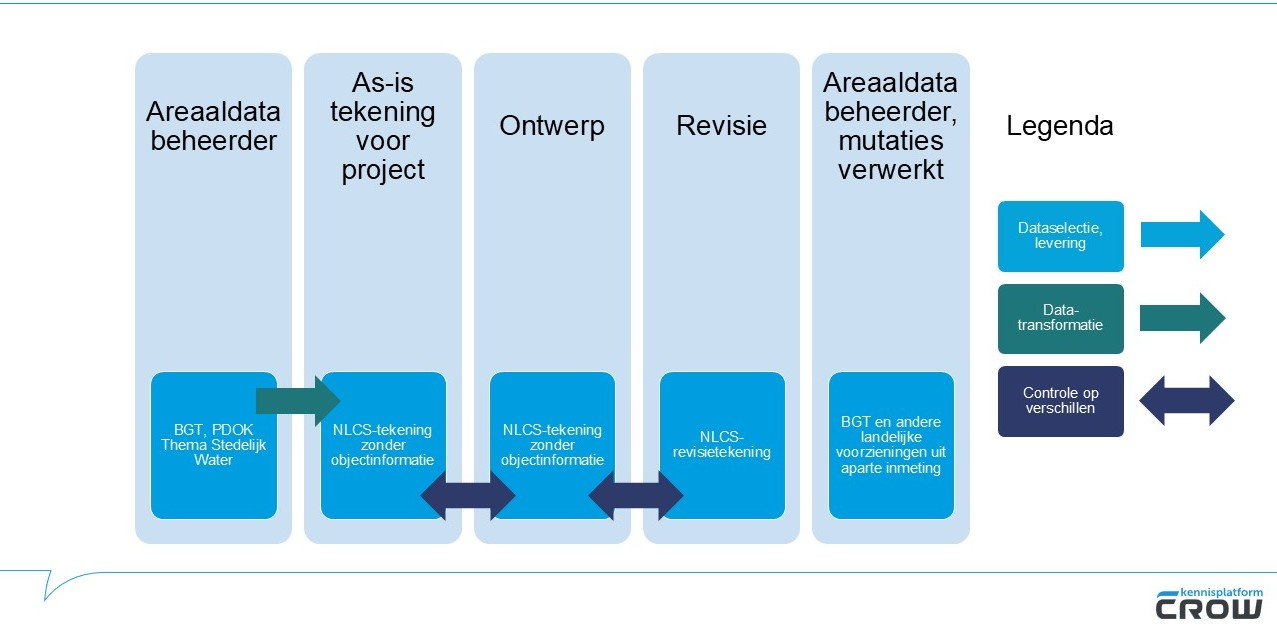
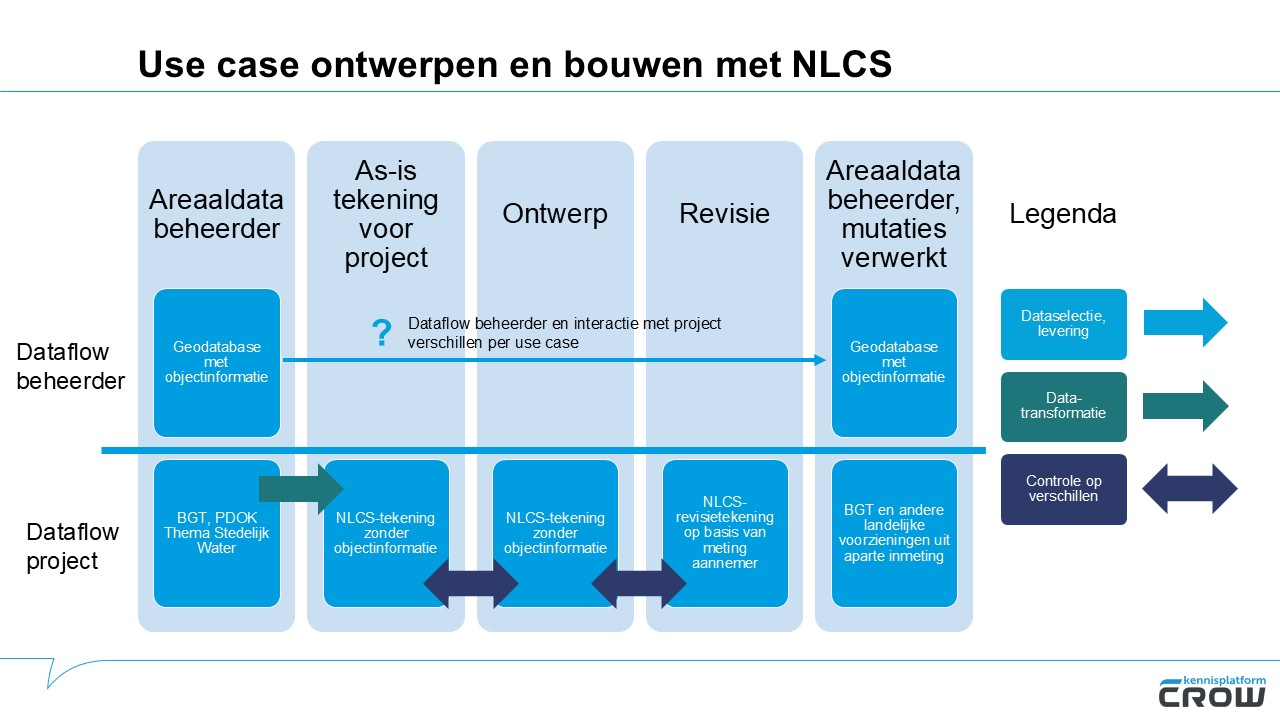
verwerking review, status DEF voor analyse project-beheer

diff --git a/docs/project-beheer/config.js b/docs/project-beheer/config.js
@@ -77,7 +77,7 @@ function indexOfRequirements(config) {
 
 var respecConfig = {
   // => https://github.com/stichting-crow/respec/wiki
-  specStatus: "CR",
+  specStatus: "DEF",
   pubDomain: "use-cases-door",
   shortName: "project-beheer",
   license: "CC-BY",

diff --git a/docs/project-beheer/hoofdstukken/2.md b/docs/project-beheer/hoofdstukken/2.md
@@ -27,7 +27,10 @@ De uitgebreide beschrijving van de use case Nijmegen staat [in dit document](htt
 Deze use case geeft nog geen invulling aan een technische oplossingsrichting voor aansluiting van standaarden.
 
 ## Pilot Dordrecht
-In de pilot Dordracht is onderzocht, of een NLCS-model drager kan zijn van de beheerinformatie, waarbij objectidentificatie nodig is, en ook objectattributen worden meegenomen in de tekening tijdens het ontwerpproces en ook naar de revisietekening. Technisch is bewezen dat het kan, als tenmisnte bij de NLCS standaard aanvullende afspraken worden gemaakt over uitwisseling van attributen bij tekeningen, en over een extra NLCS-status. De pilot werpt vragen op of dit een gewenst en haalbaar pad is voor aanlevering van mutaties: de ontwerper ontwerpt met andere geometrieën dan een beheerder aanlevert, denk bijvoorbeeld aan hartlijnen en offsets voor een weg in het ontwerp, terwijl de weg als 100 meter vak in de beheergeometrie staat. Het meenemen van de attributen en objectidentificatie zal in elk geval een heel andere werkwijze vragen van de ontwerper. 
+In de pilot Dordracht is onderzocht, of een NLCS-model drager kan zijn van de beheerinformatie, waarbij objectidentificatie nodig is, en ook objectattributen worden meegenomen in de tekening tijdens het ontwerpproces en ook naar de revisietekening. Technisch is bewezen dat het kan, als tenminste bij de NLCS standaard aanvullende afspraken worden gemaakt over uitwisseling van attributen bij tekeningen, en over een extra NLCS-status. Het meenemen van de attributen en objectidentificatie zal in elk geval een heel andere werkwijze vragen van de ontwerper. 
+<br><br>
+De pilot werpt vragen op of de voorgestelde werkwijze een gewenst en haalbaar pad is voor aanlevering van mutaties: de ontwerper ontwerpt met andere geometrieën dan een beheerder aanlevert, denk bijvoorbeeld aan hartlijnen en offsets voor een weg in het ontwerp, terwijl de weg als 100 meter vak in de beheergeometrie staat. De route om de vakken het hele project in tekeningen mee te nemen wordt door ontwerpers als niet goed mogelijk gezien, omdat het ontwerpen juist bestaat uit het ruimtelijk inpassen en de hele tijd verschuiven van alignments / lijnen en offsets tot een aangepaste weg of trottoir past in de omgeving. De beheervlakken moeten daarom tijdens het ontwerp aaneensluitende lijnen zijn. Pas als je het in beheer neemt, ga je weer denken in vakken waar wel of niet maatregelen nodig zijn.
+<br><br> 
 Daarnaast is het de vraag, of een revisie niet onafhankelijk moet gebeuren van het ontwerp, waarbij een object wordt ingemeten en de gebruikte materialen worden geregistreerd tijdens het bouwproces. 
 
 
@@ -55,10 +58,10 @@ De use case van Amsterdam, die ook is overgenomen door Gelderland en Zuid-Hollan
 <figcaption>Use case Amsterdam</figcaption>
 </figure>
 
-Deze use case vraagt om het standaardiseren van de techniek waarmee een minimale dataset wordt uitgewisseld, en het standaardiseren van de techniek waarmee zowel geometrische als alfanumerieke informatie wordt opgeleverd. Er is geen matching nodig tussen NLCS en informatiemodellen, omdat het gebruik van tekeningen tijdens ontwerp en bouw los staat van het opleveren van revisiegegevens.
+Deze use case vraagt om het standaardiseren van de techniek waarmee een minimale dataset wordt uitgewisseld, en het standaardiseren van de techniek waarmee zowel geometrische als alfanumerieke informatie wordt opgeleverd. Er is geen matching nodig tussen NLCS modellen en beheergeometrie, omdat het gebruik van tekeningen tijdens ontwerp en bouw los staat van het opleveren van revisiegegevens. Wel moet de revisiemeting ook kunnen worden gevisualiseerd in een NLCS-tekening, daarvoor is wel een alignment tussen IMBOR/GWSW/.. en NLCS nodig.
 
 ## Use cases BIM Basis Infra
-Heel andere use cases komen vanuit de [=BIM Basis Infra=]. Daarin zitten bouwbedrijven waaronder VolkerWessels, en ingenieursbureaus waaronder Movares die gevraagd hebben om van NLCS een informatiemodel te maken, met als doel om objecten goed te kunnen classificeren in 2D CAD en 3D BIM modellen en te automatiseren met het maken van hoeveelheidsberekeningen, inkoopstaten en dergelijke. Bij de BIM Basis Infra zitten ook opdrachtgevers waaronder Gelderland, die de classificatie willen gebruiken om informatie vanuit het project over te dragen naar beheer. 
+Heel andere use cases komen vanuit de [=BIM Basis Infra=]. Daarin zitten bouwbedrijven waaronder VolkerWessels, en ingenieursbureaus waaronder Movares die gevraagd hebben om van NLCS een informatiemodel te maken, met als doel om objecten goed te kunnen classificeren in 2D CAD en 3D BIM modellen (die laatste vraagt een classificatie met een relatie naar IFC) en te automatiseren met het maken van hoeveelheidsberekeningen, inkoopstaten en dergelijke. Bij de BIM Basis Infra zitten ook opdrachtgevers waaronder Gelderland, die de classificatie willen gebruiken om informatie vanuit het project over te dragen naar beheer. 
 Deze groep wil inzetten op een duurzame oplossing voor de langere termijn.
 
 Deze use case vraagt om [technisch scenario variant 3](#variant-3-alignen-informatiemodellen-met-nlcs-classificatie).

diff --git a/docs/project-beheer/hoofdstukken/samenvatting.md b/docs/project-beheer/hoofdstukken/samenvatting.md
@@ -1,5 +1,5 @@
 **Verkenning NLCS - IMBOR**
-Dit document beschrijft de verkenning van oplossingsrichtingen voor het uitwisselen van informatie tussen een beheerder die werkt met informatiemodellen als IMBOR en GWSW in een areaalbeheerpakket en een projectteam (ingenieursbureau, aannemer), dat werkt met ontwerp- en revisietekeningen conform NLCS. De vraag daarbij is, hoe het beste een verbinding tussen de NLCS standaard enerzijds, en de informatiemodellen anderzijds gemaakt kan worden. Het verzoek om deze verkenning op te stellen komt voort uit het [=DOOR=]-programma. 
+Dit document beschrijft de verkenning van oplossingsrichtingen voor het uitwisselen van informatie tussen een beheerder die werkt met informatiemodellen als IMBOR en GWSW in een areaalbeheerpakket en een projectteam (ingenieursbureau, aannemer), dat werkt met ontwerp- en revisietekeningen conform NLCS. De vraag daarbij is, hoe het beste een verbinding tussen de NLCS standaard enerzijds, en de informatiemodellen anderzijds gemaakt kan worden. Het verzoek om deze verkenning op te stellen komt voort uit het [=DOOR=]-programma, die NLCS met IMBOR willen verbinden. 
 
 **Use cases**<br>
 De in de verkenning onderzochte use cases zijn:
@@ -24,7 +24,7 @@ Voor deze uitwisselmomenten ziin transformaties en validaties tussen beheerdata 
 
 **Korte termijn oplossing**<br>
 In de verkenning is onderzocht of een korte termijn tussenoplossing nodig is voor de aansluiting tussen NLCS en IMBOR, vooruitlopend op de architectuur van samenhangende standaarden op lange termijn. Op korte termijn is elk van de varianten van de alignments geschikt voor de beschreven uitwisselingen. Er is nog wel kennis nodig vanuit verschillende vakgebieden om NLCS en IMBOR correct te matchen, er zitten nu nog veel open vragen in de vergelijking.
-Zolang vanuit het DOOR programma geen breed gedragen use case komt met een heel specifieke datatransformatie, lijkt er geen noodzaak om geld uit te geven aan een korte termijn oplossing. Men kan beter mee ontwikkelen naar een lange termijn oplossing. 
+Zolang vanuit het DOOR programma geen breed gedragen use case komt met een heel specifieke datatransformatie, lijkt er geen noodzaak om geld uit te geven aan een korte termijn oplossing. Men kan beter mee ontwikkelen naar een lange termijn oplossing.   
 
 **Lange termijn oplossing**<br>
 Op lange termijn is **variant 3: alignen van informatiemodellen met een NLCS-classificatie** de oplossing die de meeste toepassingen biedt in de gehele keten, en de laagste beheerlast geeft in het onderling afstemmen van standaarden. Omdat aan deze oplossing wordt gewerkt in collectief verband, binnen beleidsmaatregel 3 van Bestuursakkoord Digitale Gebouwde Omgeving '27, is de aanbeveling aan het DOOR programma om het gereserveerde budget voor de alignment tussen NLCS en IMBOR te besteden aan de digiDeal NLCS Objectclassificatie. Gelderland gaat hierin in de eerste fase de aansluiting van de NLCS classificatie van verhardingen en/of kunstwerken op IMBOR beheerdata beproeven. De hiervoor benodigde classificatie van NLCS en alignment naar IMBOR zou een logische besteding zijn van het DOOR budget en ervoor zorgen dat ontwikkelingen van de lagere overheden samen met de ketenpartners gedaan worden.
